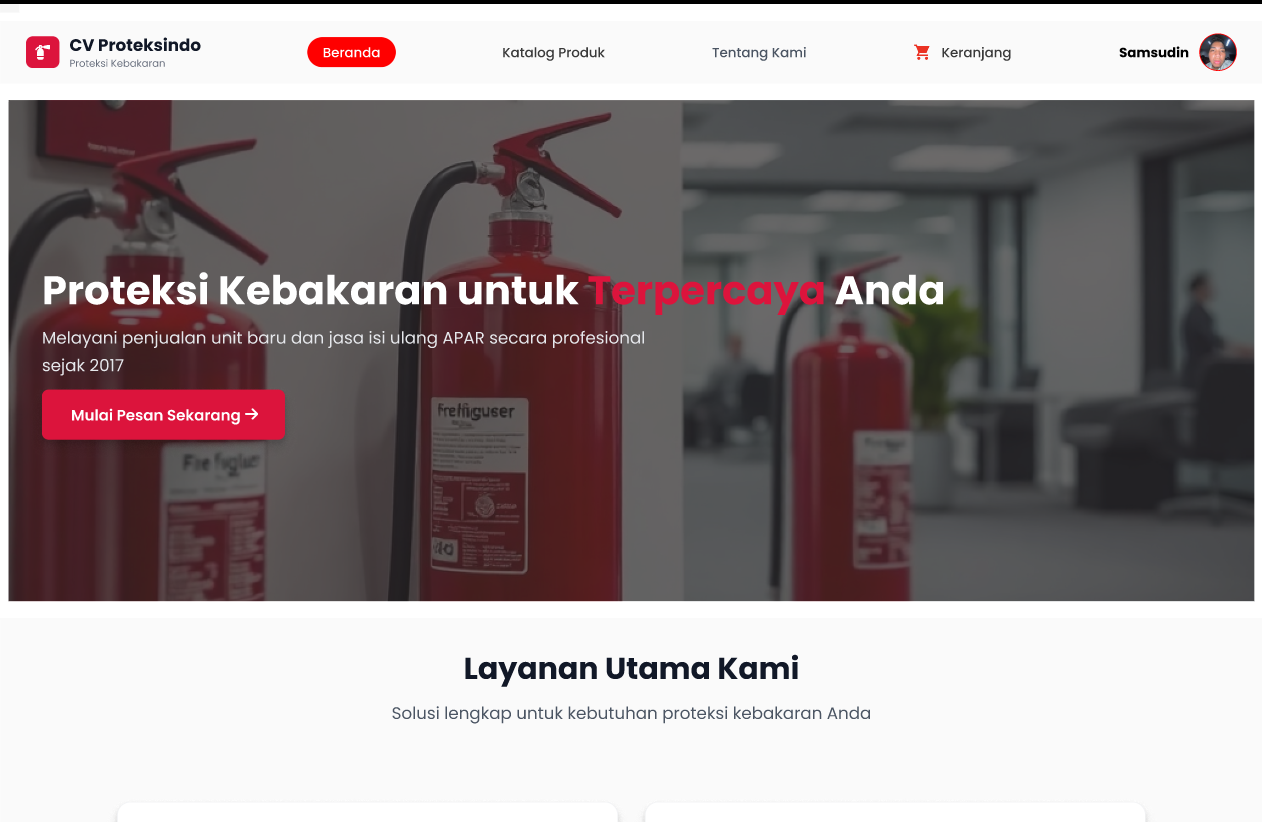
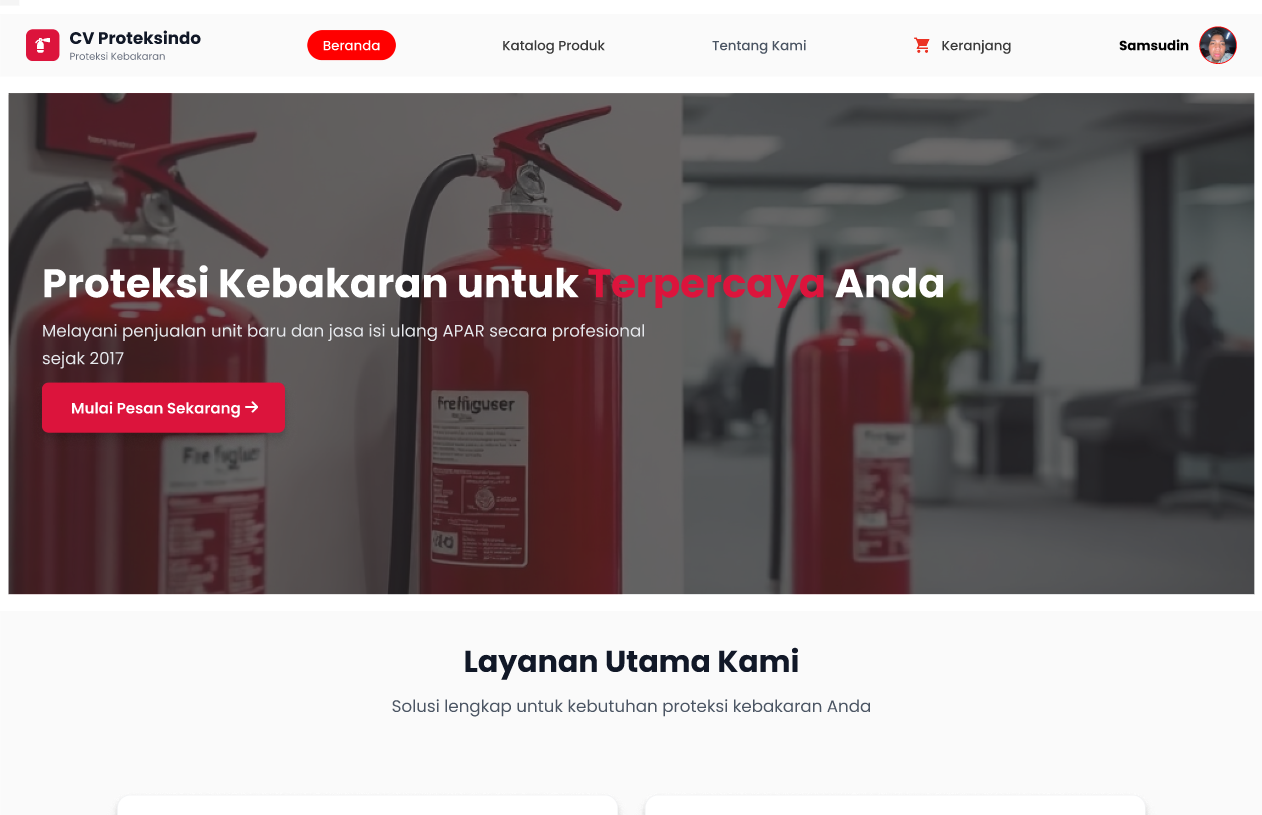
Update hero profile photos

diff --git a/src/app/page.tsx b/src/app/page.tsx
@@ -66,6 +66,21 @@ const projects = [
   },
 ];
 
+const profilePhotos = [
+  {
+    src: "/profile/fayiz-2.png",
+    alt: "Fayiz profile photo 1",
+  },
+  {
+    src: "/profile/fayiz-3.png",
+    alt: "Fayiz profile photo 3",
+  },
+  {
+    src: "/profile/fayiz-4.png",
+    alt: "Fayiz profile photo 4",
+  },
+];
+
 const skillGroups = [
   {
     title: "Front-End",
@@ -197,64 +212,108 @@ export default function Home() {
 
       <section
         id="home"
-        className="relative z-10 mx-auto flex min-h-screen max-w-6xl flex-col items-center justify-center px-6 pt-24 text-center"
+        className="relative z-10 mx-auto grid min-h-screen max-w-6xl items-center gap-12 px-6 pt-32 text-center md:grid-cols-[1.05fr_0.95fr] md:text-left"
       >
-        <motion.div
-          initial={{ opacity: 0, y: 24 }}
-          animate={{ opacity: 1, y: 0 }}
-          transition={{ duration: 0.8 }}
-          className="liquid-pill mb-5 inline-flex items-center gap-2 px-4 py-2 text-sm text-slate-200"
-        >
-          <Sparkles size={16} className="text-sky-300" />
-          Front-End Web Developer & UI Designer
-        </motion.div>
-
-        <motion.h1
-          initial={{ opacity: 0, y: 24 }}
-          animate={{ opacity: 1, y: 0 }}
-          transition={{ duration: 0.9, delay: 0.1 }}
-          className="max-w-5xl text-5xl font-semibold tracking-tight md:text-7xl"
-        >
-          Designing clean interfaces and building{" "}
-          <span className="bg-gradient-to-r from-sky-200 via-cyan-100 to-violet-200 bg-clip-text text-transparent">
-            elegant digital experiences.
-          </span>
-        </motion.h1>
-
-        <motion.p
-          initial={{ opacity: 0, y: 24 }}
-          animate={{ opacity: 1, y: 0 }}
-          transition={{ duration: 0.9, delay: 0.2 }}
-          className="mt-6 max-w-2xl text-base leading-8 text-slate-300/90 md:text-lg"
-        >
-          Hi, I’m Fayiz Apriwansyah Nugraha. I create modern web interfaces,
-          mobile app designs, and responsive digital experiences with a clean,
-          elegant, and user-focused approach.
-        </motion.p>
-
-        <motion.div
-          initial={{ opacity: 0, y: 24 }}
-          animate={{ opacity: 1, y: 0 }}
-          transition={{ duration: 0.9, delay: 0.3 }}
-          className="mt-9 flex flex-col gap-4 sm:flex-row"
-        >
-          <a
-            href="#projects"
-            className="liquid-button group px-7 py-3 text-sm font-medium"
+        <div>
+          <motion.div
+            initial={{ opacity: 0, y: 24 }}
+            animate={{ opacity: 1, y: 0 }}
+            transition={{ duration: 0.8 }}
+            className="liquid-pill mb-5 inline-flex items-center gap-2 px-4 py-2 text-sm text-slate-200"
           >
-            View My Work
-            <ArrowUpRight
-              size={16}
-              className="ml-2 inline transition group-hover:translate-x-0.5 group-hover:-translate-y-0.5"
-            />
-          </a>
+            <Sparkles size={16} className="text-sky-300" />
+            Front-End Web Developer & UI Designer
+          </motion.div>
 
-          <a
-            href="#contact"
-            className="liquid-button px-7 py-3 text-sm font-medium"
+          <motion.h1
+            initial={{ opacity: 0, y: 24 }}
+            animate={{ opacity: 1, y: 0 }}
+            transition={{ duration: 0.9, delay: 0.1 }}
+            className="text-5xl font-semibold tracking-tight md:text-7xl"
           >
-            Contact Me
-          </a>
+            Designing clean interfaces and building{" "}
+            <span className="bg-gradient-to-r from-sky-200 via-cyan-100 to-violet-200 bg-clip-text text-transparent">
+              elegant digital experiences.
+            </span>
+          </motion.h1>
+
+          <motion.p
+            initial={{ opacity: 0, y: 24 }}
+            animate={{ opacity: 1, y: 0 }}
+            transition={{ duration: 0.9, delay: 0.2 }}
+            className="mt-6 max-w-2xl text-base leading-8 text-slate-300/90 md:text-lg"
+          >
+            Hi, I’m Fayiz Apriwansyah Nugraha. I create modern web interfaces,
+            mobile app designs, and responsive digital experiences with a clean,
+            elegant, and user-focused approach.
+          </motion.p>
+
+          <motion.div
+            initial={{ opacity: 0, y: 24 }}
+            animate={{ opacity: 1, y: 0 }}
+            transition={{ duration: 0.9, delay: 0.3 }}
+            className="mt-9 flex flex-col justify-center gap-4 sm:flex-row md:justify-start"
+          >
+            <a
+              href="#projects"
+              className="liquid-button group px-7 py-3 text-sm font-medium"
+            >
+              View My Work
+              <ArrowUpRight
+                size={16}
+                className="ml-2 inline transition group-hover:translate-x-0.5 group-hover:-translate-y-0.5"
+              />
+            </a>
+
+            <a
+              href="#contact"
+              className="liquid-button px-7 py-3 text-sm font-medium"
+            >
+              Contact Me
+            </a>
+          </motion.div>
+        </div>
+
+        <motion.div
+          initial={{ opacity: 0, scale: 0.96, y: 24 }}
+          animate={{ opacity: 1, scale: 1, y: 0 }}
+          transition={{ duration: 0.9, delay: 0.25 }}
+          className="relative mx-auto w-full max-w-[460px]"
+        >
+          <div className="absolute -left-8 top-12 h-36 w-36 rounded-full bg-sky-400/25 blur-3xl" />
+          <div className="absolute -right-8 bottom-16 h-44 w-44 rounded-full bg-violet-500/25 blur-3xl" />
+
+          <div className="liquid-card relative overflow-hidden rounded-[2.5rem] p-3">
+            <div className="relative z-10 h-[500px] overflow-hidden rounded-[2rem] bg-white/[0.06]">
+              <Image
+                src="/profile/fayiz.png"
+                alt="Fayiz Apriwansyah Nugraha"
+                fill
+                priority
+                sizes="(max-width: 768px) 100vw, 460px"
+                className="object-cover object-[center_62%]"
+              />
+            </div>
+          </div>
+
+          <div className="mt-4 grid grid-cols-3 gap-3">
+            {profilePhotos.map((photo) => (
+              <div
+                key={photo.src}
+                className="liquid-card overflow-hidden rounded-[1.5rem] p-2"
+              >
+                <div className="relative z-10 h-32 overflow-hidden rounded-[1rem] bg-white/[0.06] sm:h-40">
+                  <Image
+                    src={photo.src}
+                    alt={photo.alt}
+                    fill
+                    sizes="(max-width: 768px) 30vw, 140px"
+                    className="object-cover object-[center_62%]"
+                  />
+                </div>
+              </div>
+            ))}
+          </div>
         </motion.div>
       </section>
 

diff --git a/src/app/projects/[slug]/ProjectDetailClient.tsx b/src/app/projects/[slug]/ProjectDetailClient.tsx
@@ -70,6 +70,8 @@ const projectDetails = {
       "/projects/proteksindo.png",
       "/projects/proteksindo-2.png",
       "/projects/proteksindo-3.png",
+      "/projects/proteksindo-4.png",
+      "/projects/proteksindo-5.png",
     ],
     role: "UI Designer",
     duration: "Design Project",

diff --git a/src/components/Navbar.tsx b/src/components/Navbar.tsx
@@ -95,7 +95,7 @@ export default function Navbar() {
     >
       <div className="relative z-10 flex items-center justify-between">
         <a href="/#home" className="text-sm font-semibold tracking-wide">
-          Fayiz<span className="text-sky-300">.</span>
+          Porto Fayiz<span className="text-sky-300">.</span>
         </a>
 
         <div className="hidden items-center gap-2 text-sm text-slate-300 md:flex">